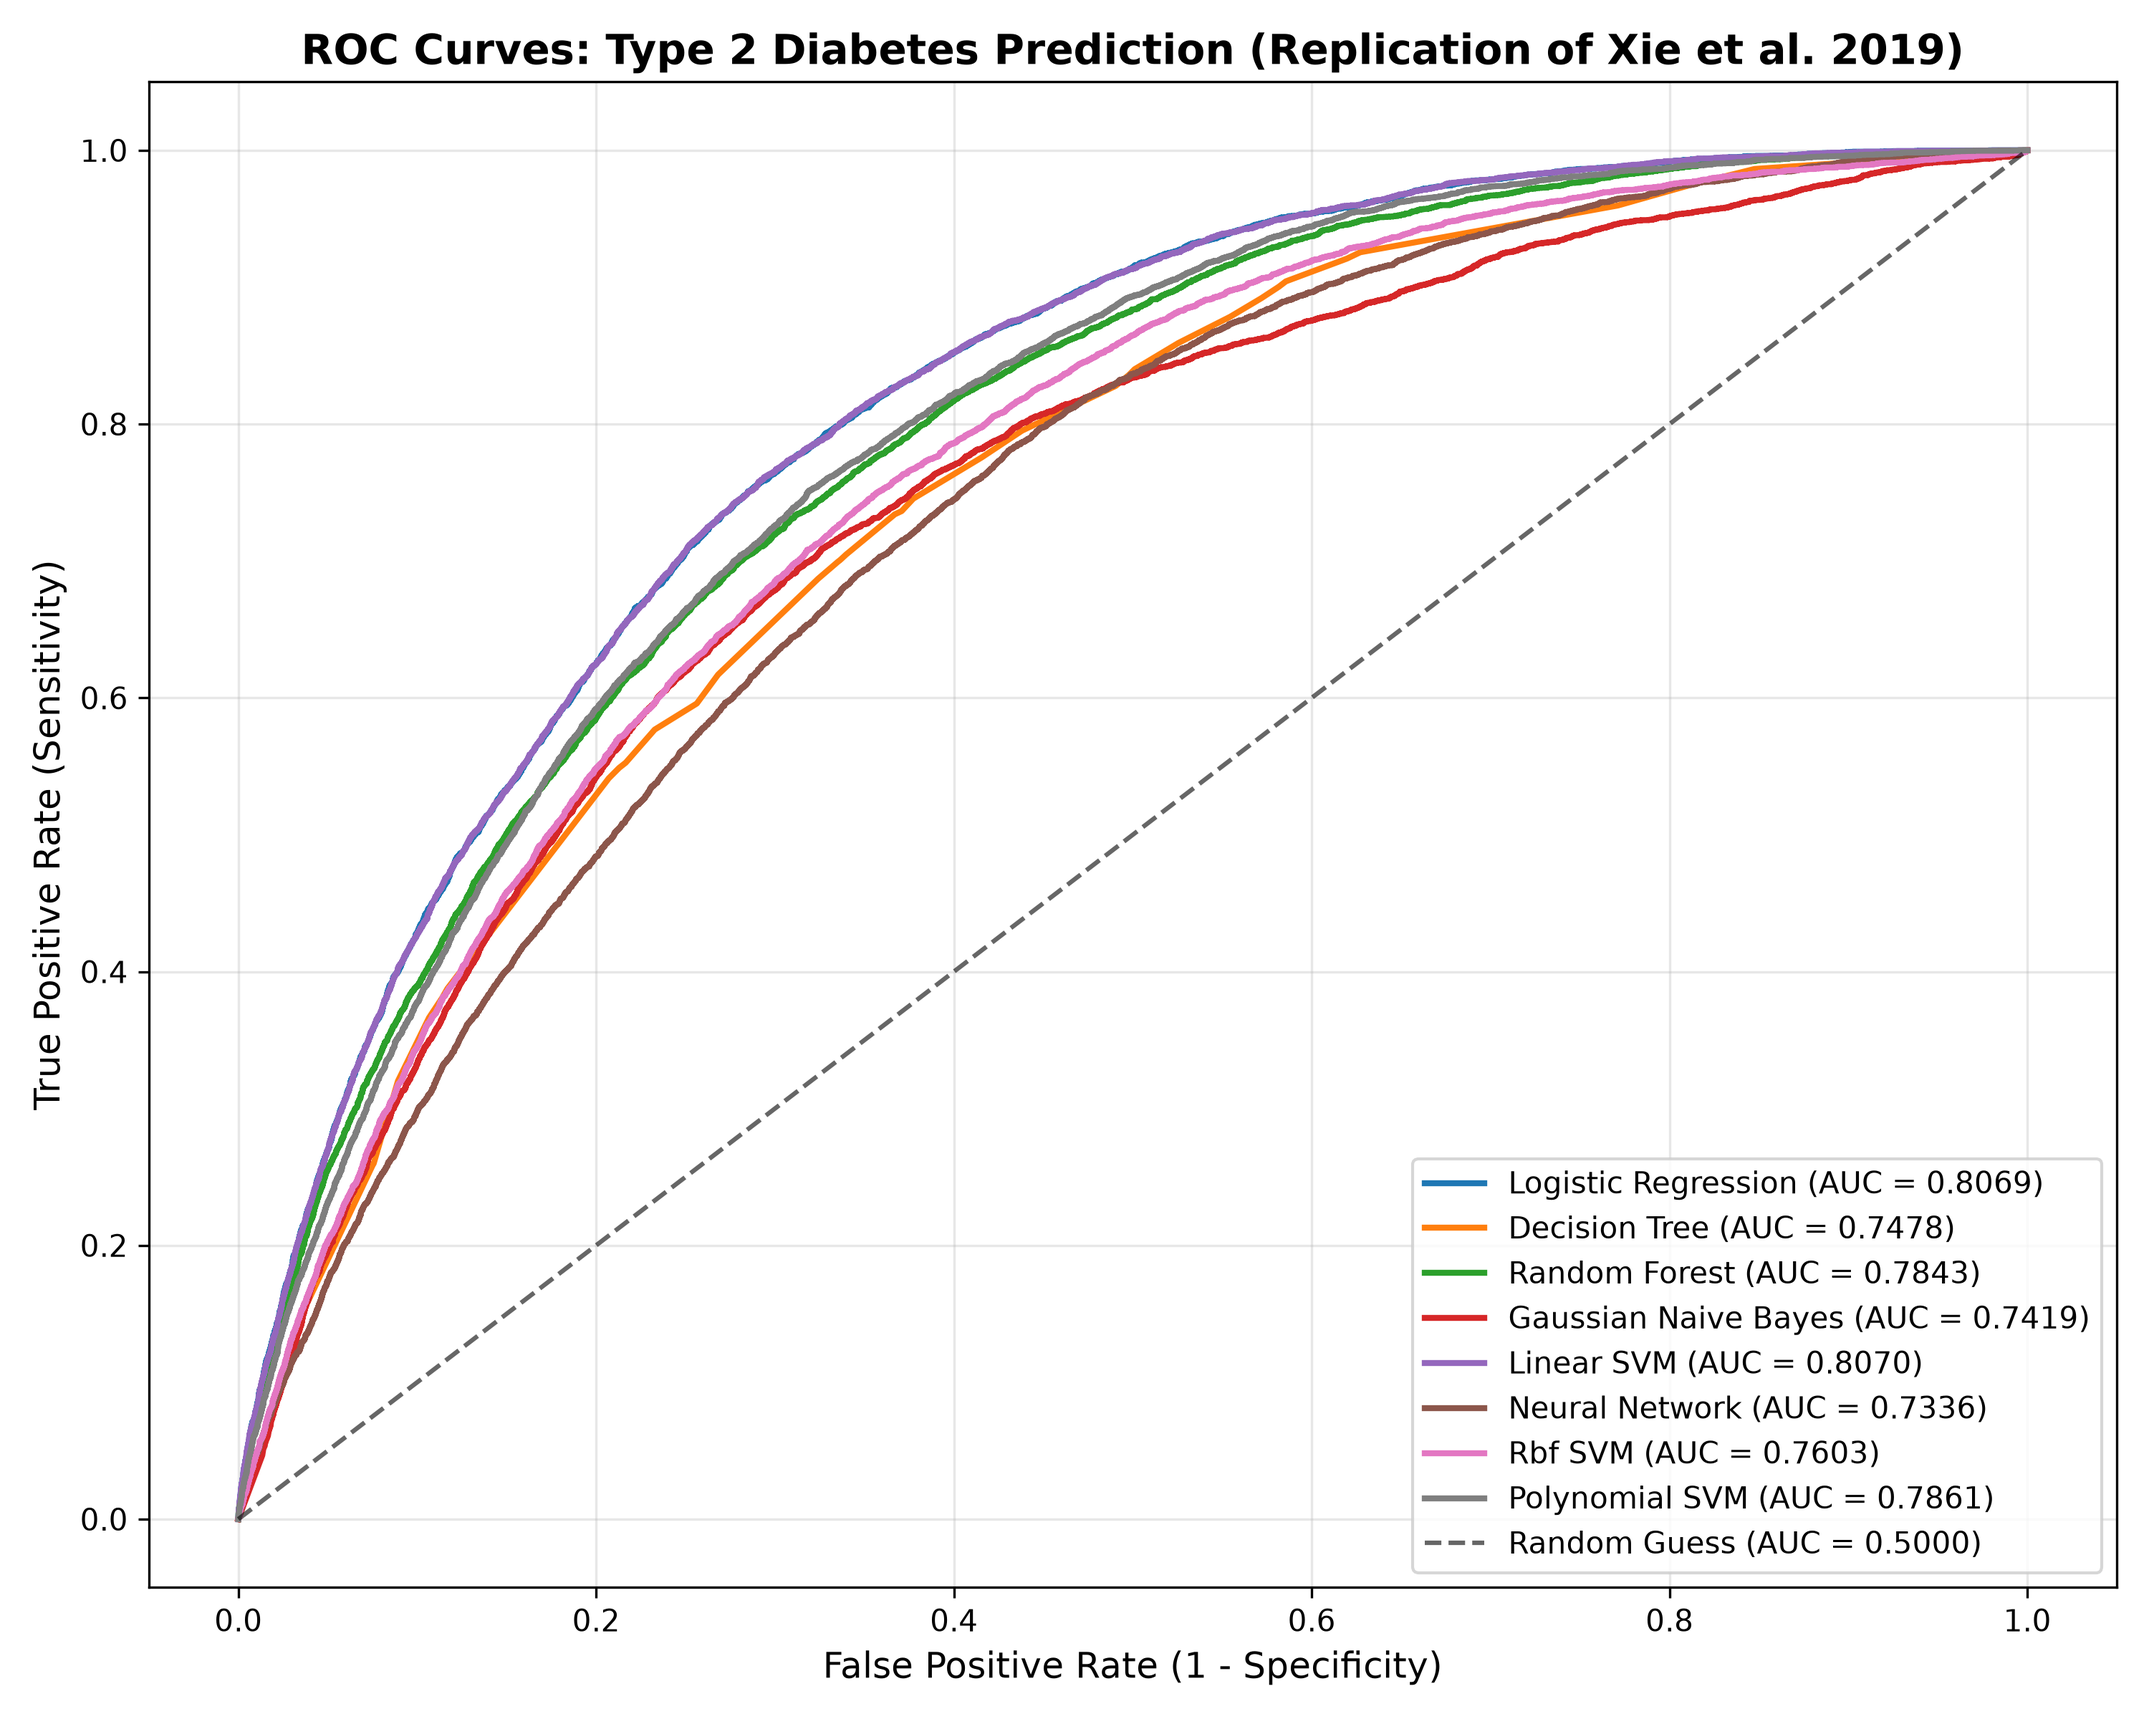
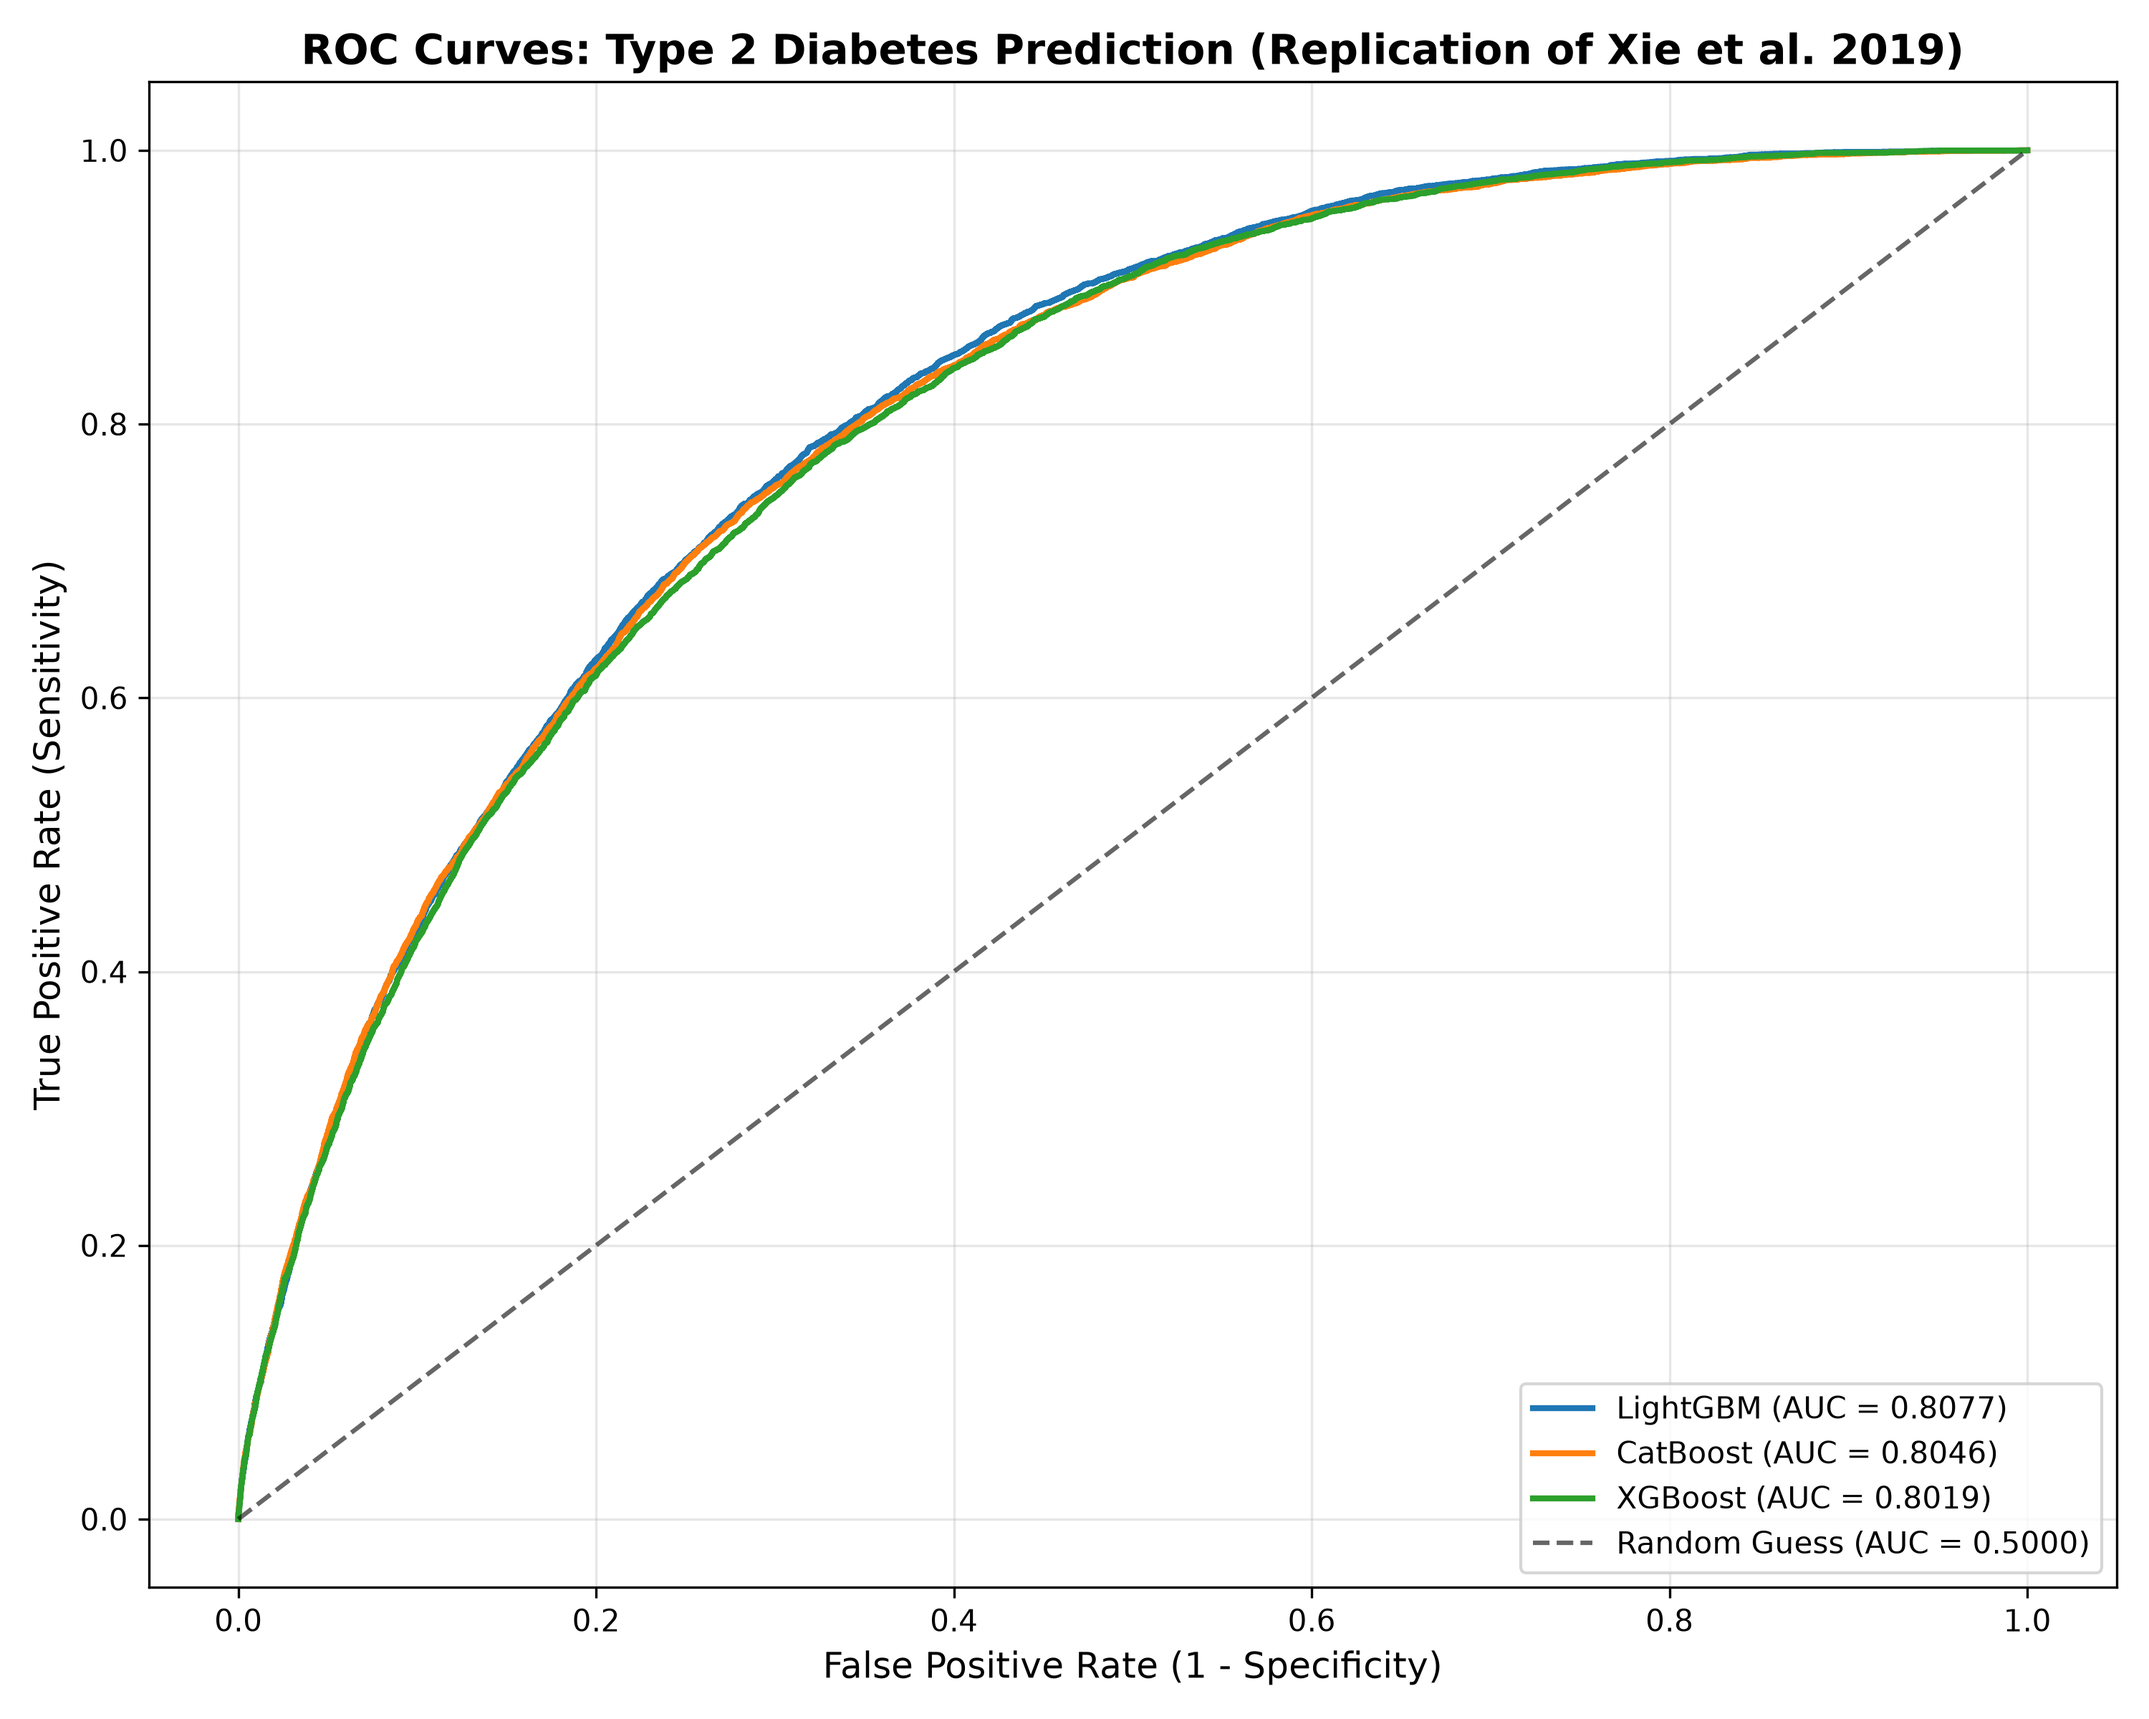
add new 3 model (CatBoost,LightGBM,XGB)

Changed region(s): [[0.093, 0.0625, 0.961, 0.875], [0.651, 0.6562, 0.961, 0.9062], [0.93, 0.75, 0.992, 0.7812]]

diff --git a/src/train_and_evaluate.py b/src/train_and_evaluate.py
@@ -38,6 +38,9 @@ from sklearn.svm import LinearSVC, SVC
 from sklearn.calibration import CalibratedClassifierCV
 from sklearn.kernel_approximation import Nystroem
 from sklearn.pipeline import Pipeline
+from lightgbm import LGBMClassifier
+from catboost import CatBoostClassifier
+from xgboost import XGBClassifier
 from project_paths import PROCESSED_CSV_PATH, RESULTS_DIR
 
 def load_data(csv_path=PROCESSED_CSV_PATH):
@@ -145,7 +148,38 @@ def run_experiments(data, run_kernel_svm=False, selected_models=None):
     # 6. Neural Network (Multilayer Perceptron)
     models['Neural Network'] = MLPClassifier(hidden_layer_sizes=(64, 32), max_iter=40, random_state=42, early_stopping=True)
 
-    # 7 & 8. RBF and Polynomial SVM
+    # 7. LightGBM
+    models['LightGBM'] = LGBMClassifier(
+        n_estimators=200,
+        learning_rate=0.05,
+        num_leaves=31,
+        random_state=42,
+        verbosity=-1,
+    )
+
+    # 8. CatBoost
+    models['CatBoost'] = CatBoostClassifier(
+        iterations=200,
+        learning_rate=0.05,
+        depth=6,
+        random_seed=42,
+        verbose=False,
+        allow_writing_files=False,
+    )
+
+    # 9. XGBoost
+    models['XGBoost'] = XGBClassifier(
+        n_estimators=200,
+        learning_rate=0.05,
+        max_depth=6,
+        subsample=0.8,
+        colsample_bytree=0.8,
+        random_state=42,
+        eval_metric='logloss',
+        n_jobs=-1,
+    )
+
+    # 10 & 11. RBF and Polynomial SVM
     if run_kernel_svm:
         print("\nNote: Training RBF and Poly SVM approximations (Nystroem kernel features)...")
         rbf_pipe = Pipeline([

diff --git a/main.py b/main.py
@@ -18,6 +18,9 @@ MODEL_NAMES = [
     "Gaussian Naive Bayes",
     "Linear SVM",
     "Neural Network",
+    "LightGBM",
+    "CatBoost",
+    "XGBoost",
     "Rbf SVM",
     "Polynomial SVM",
 ]

diff --git a/README.md b/README.md
@@ -168,7 +168,7 @@ Start the manual model selector:
 python main.py
 ```
 
-The program shows eight models. Enter numbers such as `1,3,6`, or press
+The program shows eleven models. Enter numbers such as `1,3,6`, or press
 **Enter** to run all models:
 
 1. Logistic Regression
@@ -177,8 +177,11 @@ The program shows eight models. Enter numbers such as `1,3,6`, or press
 4. Gaussian Naive Bayes
 5. Linear SVM
 6. Neural Network
-7. Rbf SVM
-8. Polynomial SVM
+7. LightGBM
+8. CatBoost
+9. XGBoost
+10. Rbf SVM
+11. Polynomial SVM
 
 For direct selection without the menu:
 
@@ -195,6 +198,14 @@ python main.py --list-models
 During execution, the terminal displays each model's Accuracy, Sensitivity,
 Specificity, and AUC. The selected models are trained on the balanced
 training data and evaluated on the untouched test data.
+
+The three added gradient-boosting models are:
+
+- **LightGBM:** Gradient boosting using leaf-wise tree growth.
+- **CatBoost:** Gradient boosting designed to handle categorical features
+  effectively; here it receives the encoded feature matrix used by the other
+  models for a consistent comparison.
+- **XGBoost:** Regularized gradient boosting with parallel tree construction.
 
 ### 6.5 Understand the model results
 
@@ -238,6 +249,9 @@ opened in a text editor when a Word processor is unavailable.
 | Gaussian Naive Bayes | 0.7060 | 0.7756 | 0.6634 | 0.4876 | 0.7134 | 0.8256 | 0.7419 | 0.7598 |
 | Linear SVM | 0.8082 | 0.8082 | 0.5167 | 0.4260 | 0.8589 | 0.8746 | 0.8070 | 0.7807 |
 | Neural Network | 0.8155 | 0.8241 | 0.2759 | 0.3781 | 0.9094 | 0.9016 | 0.7336 | 0.7949 |
+| LightGBM | 0.8172 | Not reported | 0.4925 | Not reported | 0.8737 | Not reported | 0.8077 | Not reported |
+| CatBoost | 0.8173 | Not reported | 0.4919 | Not reported | 0.8739 | Not reported | 0.8046 | Not reported |
+| XGBoost | 0.8105 | Not reported | 0.5085 | Not reported | 0.8631 | Not reported | 0.8019 | Not reported |
 | Rbf SVM | 0.8166 | 0.8178 | 0.3530 | 0.4014 | 0.8972 | 0.8902 | 0.7603 | 0.7788 |
 | Polynomial SVM | 0.7962 | 0.7962 | 0.4974 | 0.4515 | 0.8481 | 0.8561 | 0.7861 | 0.7587 |
 
